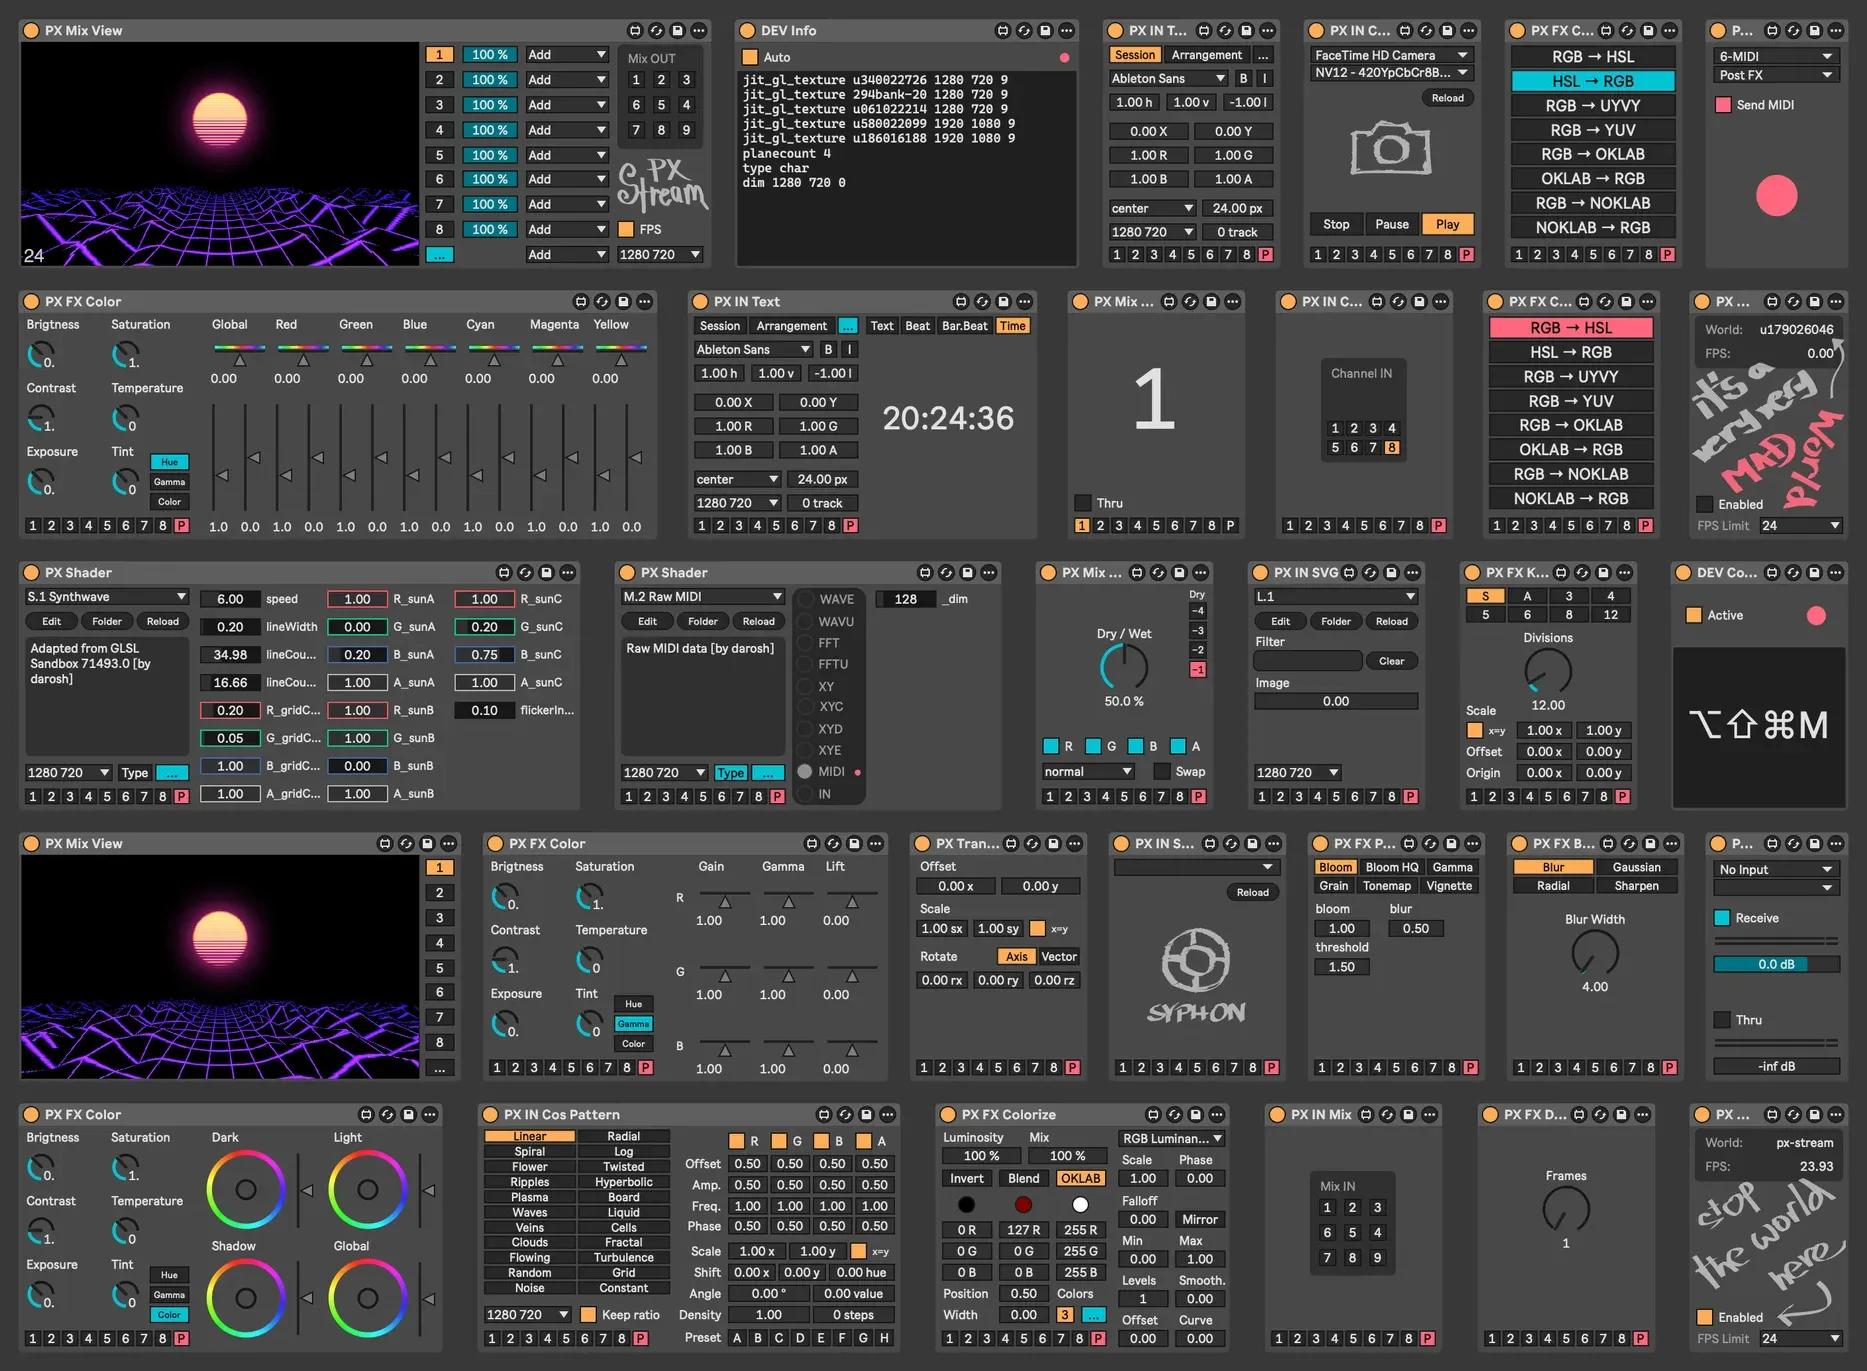
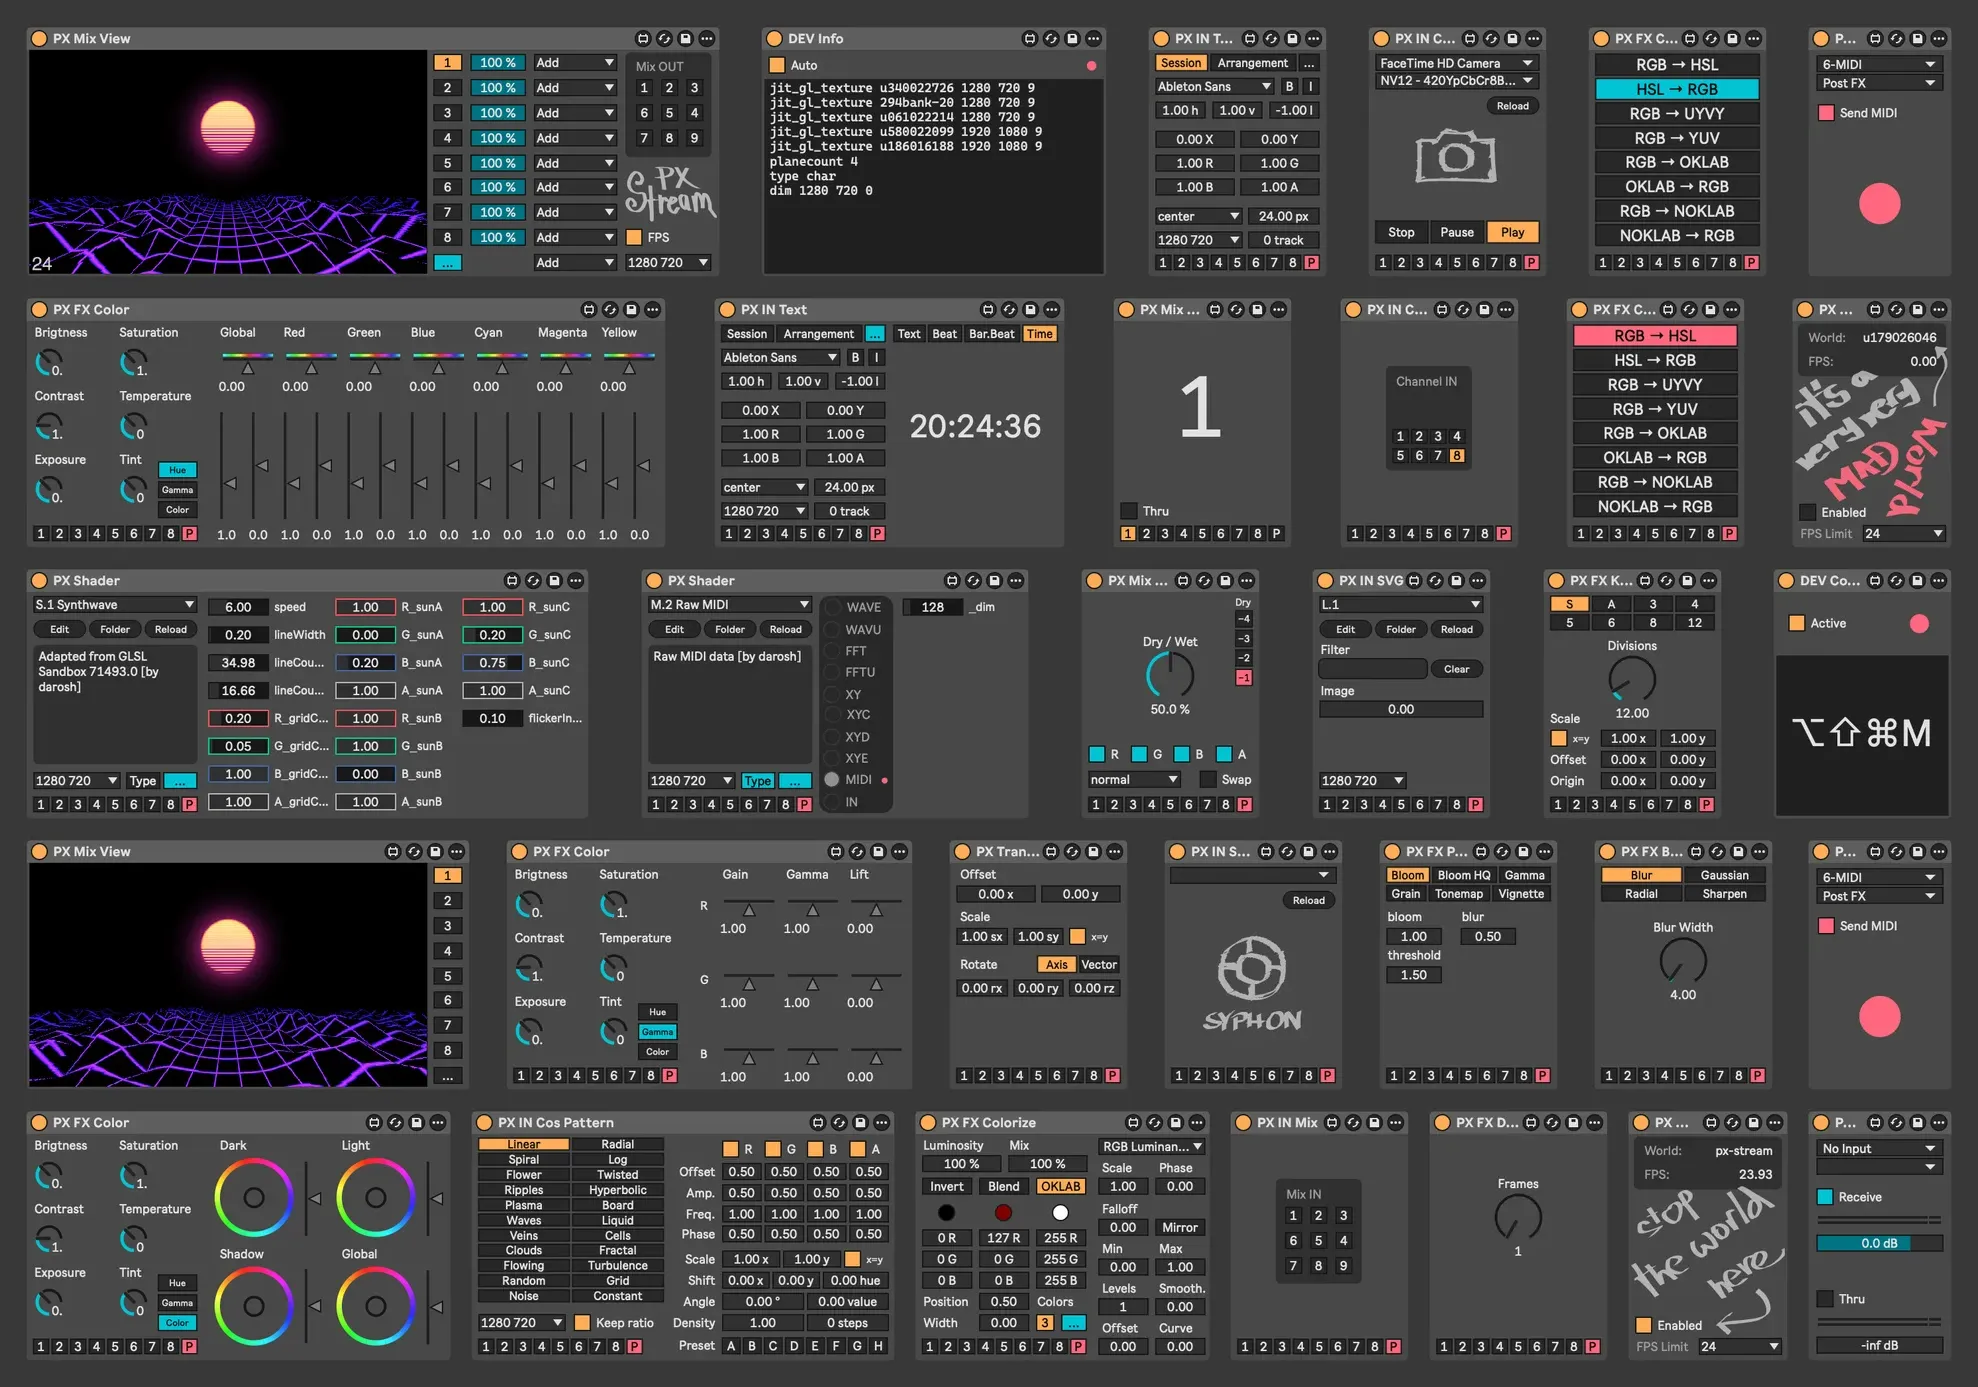
doc / screenshots

diff --git a/scripts/doc.js b/scripts/doc.js
@@ -1,0 +1,145 @@
+import fs from 'fs'
+import path from 'path'
+import { glob } from 'glob'
+import sharp from 'sharp'
+
+// === CONFIGURATION ===
+const inputPattern = './assets/devices/*.webp' // adjust to your folder
+const outputFile = './assets/devices.webp'
+const htmlOutput = './assets/devices.html' // HTML snippet for GH README
+const rows = 5 // number of rows
+const align = 'justify' // "left" | "center" | "justify"
+const spacing = 16 // minimal distance between images
+const margin = 24 // outer margin around the whole collage
+const targetWidth = 980 // target max width for GH rendering
+
+function imgSection (name) {
+  return path.parse(name).name
+    .replace(/_v\d+$/, '')
+    .toLowerCase()
+    .replace(/_\(.+\)/, '')
+    .replaceAll('_', '-')
+}
+
+async function createCollage () {
+  // Get images
+  const files = glob.sync(inputPattern)
+  if (files.length === 0) throw new Error('No images found')
+
+  // Load metadata (width, height)
+  const images = await Promise.all(
+    files.map(async (file) => {
+      const metadata = await sharp(file).metadata()
+      return { file, width: metadata.width, height: metadata.height, name: path.basename(file) }
+    })
+  )
+
+  const rowHeight = images[0].height
+
+  // Sort images by width (descending)
+  images.sort((a, b) => b.width - a.width)
+
+  // Initialize rows
+  const rowImages = Array.from({ length: rows }, () => [])
+  const rowWidths = Array(rows).fill(0)
+
+  // Greedy bin packing: assign each image to the row with least current width
+  for (const img of images) {
+    let targetRow = rowWidths.indexOf(Math.min(...rowWidths))
+    rowImages[targetRow].push(img)
+    rowWidths[targetRow] += img.width + spacing
+  }
+
+  // Compute max row width
+  const maxRowWidth = Math.max(
+    ...rowImages.map(
+      (row) => row.reduce((s, img) => s + img.width, 0) + (row.length - 1) * spacing
+    )
+  )
+
+  const totalHeight = rows * rowHeight + (rows - 1) * spacing
+
+  // Prepare sharp composites and layout data for HTML
+  const composites = []
+  const layout = []
+  let y = margin
+
+  for (const row of rowImages) {
+    const totalWidth = row.reduce((s, img) => s + img.width, 0)
+    const gaps = row.length - 1
+
+    let x = margin
+    let extraSpace = maxRowWidth - totalWidth - gaps * spacing
+
+    let gapSpacing = spacing
+    let remainder = 0
+
+    if (align === 'center') {
+      x += Math.floor(extraSpace / 2)
+    } else if (align === 'justify' && gaps > 0) {
+      gapSpacing = spacing + Math.floor(extraSpace / gaps)
+      remainder = extraSpace % gaps // distribute leftover pixels
+    }
+
+    const rowLayout = []
+
+    for (let i = 0; i < row.length; i++) {
+      const img = row[i]
+      composites.push({
+        input: img.file,
+        top: y,
+        left: x,
+      })
+      rowLayout.push({ ...img, width: img.width, height: rowHeight })
+
+      x += img.width
+      if (i < row.length - 1) {
+        x += gapSpacing
+        if (remainder > 0) {
+          x += 1 // distribute an extra pixel
+          remainder--
+        }
+      }
+    }
+
+    layout.push(rowLayout)
+    y += rowHeight + spacing
+  }
+
+  // Create blank canvas and composite
+  const collage = sharp({
+    create: {
+      width: maxRowWidth + margin * 2,
+      height: totalHeight + margin * 2,
+      channels: 4,
+      background: { r: 56, g: 56, b: 56, alpha: 1 },
+    },
+  })
+    .composite(composites)
+    .webp()
+
+  await collage.toFile(outputFile)
+  console.log('Collage saved to', outputFile)
+
+  // Generate HTML snippet for GH
+  const scaleFactor = targetWidth / (maxRowWidth + margin * 2)
+  const html = []
+  html.push(`<div style="display:flex; flex-direction:column; gap:${spacing}px; max-width:${targetWidth}px;">`)
+
+  layout.forEach((row, rowIndex) => {
+    html.push(`  <div style="display:flex; gap:${spacing}px; justify-content:space-between;">`)
+    row.forEach((img, i) => {
+      const scaledWidth = Math.round(img.width * scaleFactor)
+      html.push(
+        `    <a href="#${imgSection(img.name)}"><img src="./${path.join('assets', 'devices', img.name)}" width="${scaledWidth}"/></a>`
+      )
+    })
+    html.push('  </div>')
+  })
+  html.push('</div>')
+
+  fs.writeFileSync(htmlOutput, html.join('\n'), 'utf-8')
+  console.log('HTML snippet saved to', htmlOutput)
+}
+
+await createCollage().catch(console.error)

diff --git a/assets/devices.html b/assets/devices.html
@@ -1,0 +1,44 @@
+<div style="display:flex; flex-direction:column; gap:16px; max-width:980px;">
+  <div style="display:flex; gap:16px; justify-content:space-between;">
+    <a href="#px-mix-view"><img src="./assets/devices/PX_Mix_View_(expanded)_v1.webp" width="346"/></a>
+    <a href="#dev-info"><img src="./assets/devices/DEV_Info_v1.webp" width="173"/></a>
+    <a href="#px-in-text"><img src="./assets/devices/PX_IN_Text_v1.webp" width="91"/></a>
+    <a href="#px-in-cam"><img src="./assets/devices/PX_IN_Cam_v1.webp" width="91"/></a>
+    <a href="#px-fx-convert"><img src="./assets/devices/PX_FX_Convert_(convert_back)_v1.webp" width="91"/></a>
+    <a href="#px-route-midi"><img src="./assets/devices/PX_Route_MIDI_v1.webp" width="73"/></a>
+  </div>
+  <div style="display:flex; gap:16px; justify-content:space-between;">
+    <a href="#px-fx-color"><img src="./assets/devices/PX_FX_Color_(hue)_v1.webp" width="319"/></a>
+    <a href="#px-in-text"><img src="./assets/devices/PX_IN_Text_(expanded)_v1.webp" width="176"/></a>
+    <a href="#px-mix-channel"><img src="./assets/devices/PX_Mix_Channel_v1.webp" width="91"/></a>
+    <a href="#px-in-channel"><img src="./assets/devices/PX_IN_Channel_v1.webp" width="91"/></a>
+    <a href="#px-fx-convert"><img src="./assets/devices/PX_FX_Convert_v1.webp" width="91"/></a>
+    <a href="#px-world"><img src="./assets/devices/PX_World_(mad_world)_v1.webp" width="81"/></a>
+  </div>
+  <div style="display:flex; gap:16px; justify-content:space-between;">
+    <a href="#px-shader"><img src="./assets/devices/PX_Shader_v1.webp" width="281"/></a>
+    <a href="#px-shader"><img src="./assets/devices/PX_Shader_(types)_v1.webp" width="194"/></a>
+    <a href="#px-mix-dry"><img src="./assets/devices/PX_Mix_Dry_v1.webp" width="91"/></a>
+    <a href="#px-in-svg"><img src="./assets/devices/PX_IN_SVG_v1.webp" width="91"/></a>
+    <a href="#px-fx-kaleidoscope"><img src="./assets/devices/PX_FX_Kaleidoscope_v1.webp" width="91"/></a>
+    <a href="#dev-console"><img src="./assets/devices/DEV_Console_v1.webp" width="91"/></a>
+  </div>
+  <div style="display:flex; gap:16px; justify-content:space-between;">
+    <a href="#px-mix-view"><img src="./assets/devices/PX_Mix_View_v1.webp" width="222"/></a>
+    <a href="#px-fx-color"><img src="./assets/devices/PX_FX_Color_(gamma)_v1.webp" width="204"/></a>
+    <a href="#px-transform"><img src="./assets/devices/PX_Transform_v1.webp" width="91"/></a>
+    <a href="#px-in-syphon"><img src="./assets/devices/PX_IN_Syphon_v1.webp" width="91"/></a>
+    <a href="#px-fx-pass"><img src="./assets/devices/PX_FX_Pass_v1.webp" width="91"/></a>
+    <a href="#px-fx-blur"><img src="./assets/devices/PX_FX_Blur_v1.webp" width="91"/></a>
+    <a href="#px-route-midi"><img src="./assets/devices/PX_Route_MIDI_(linked)_v1.webp" width="73"/></a>
+  </div>
+  <div style="display:flex; gap:16px; justify-content:space-between;">
+    <a href="#px-fx-color"><img src="./assets/devices/PX_FX_Color_v1.webp" width="213"/></a>
+    <a href="#px-in-cos-pattern"><img src="./assets/devices/PX_IN_Cos_Pattern_v1.webp" width="212"/></a>
+    <a href="#px-fx-colorize"><img src="./assets/devices/PX_FX_Colorize_v1.webp" width="148"/></a>
+    <a href="#px-in-mix"><img src="./assets/devices/PX_IN_Mix_v1.webp" width="91"/></a>
+    <a href="#px-fx-delay"><img src="./assets/devices/PX_FX_Delay_v1.webp" width="91"/></a>
+    <a href="#px-world"><img src="./assets/devices/PX_World_v1.webp" width="81"/></a>
+    <a href="#px-route-audio"><img src="./assets/devices/PX_Route_Audio_v1.webp" width="73"/></a>
+  </div>
+</div>

diff --git a/scripts/screenshots.js b/scripts/screenshots.js
@@ -19,109 +19,3 @@ async function processScreenshots () {
 }
 
 await processScreenshots().catch(console.error)
-
-// === CONFIGURATION ===
-const inputPattern = "./assets/devices/*.webp"; // adjust to your folder
-const outputFile = "./assets/devices.webp";
-const rows = 5; // number of rows
-const align = "justify"; // "left" | "center" | "justify"
-const spacing = 16; // minimal distance between images
-const margin = 16; // outer margin around the whole collage
-
-async function createCollage() {
-  // Get images
-  const files = glob.sync(inputPattern, {ignore: ['./assets/devices/PX_Route_MIDI_(linked)_v1.webp']});
-  if (files.length === 0) throw new Error("No images found");
-
-  // Load metadata (width, height)
-  const images = await Promise.all(
-    files.map(async (file) => {
-      const metadata = await sharp(file).metadata();
-      return { file, width: metadata.width, height: metadata.height };
-    })
-  );
-
-  const rowHeight = images[0].height;
-
-  // Sort images by width (descending)
-  images.sort((a, b) => b.width - a.width);
-
-  // Initialize rows
-  const rowImages = Array.from({ length: rows }, () => []);
-  const rowWidths = Array(rows).fill(0);
-
-  // Greedy bin packing: assign each image to the row with least current width
-  for (const img of images) {
-    let targetRow = rowWidths.indexOf(Math.min(...rowWidths));
-    rowImages[targetRow].push(img);
-    rowWidths[targetRow] += img.width + spacing;
-  }
-
-  // Compute max row width
-  const maxRowWidth = Math.max(
-    ...rowImages.map(
-      (row) => row.reduce((s, img) => s + img.width, 0) + (row.length - 1) * spacing
-    )
-  );
-
-  const totalHeight = rows * rowHeight + (rows - 1) * spacing;
-
-  // Prepare sharp composites
-  const composites = [];
-  let y = margin;
-
-  for (const row of rowImages) {
-    const totalWidth = row.reduce((s, img) => s + img.width, 0);
-    const gaps = row.length - 1;
-
-    let x = margin;
-    let extraSpace = maxRowWidth - totalWidth - gaps * spacing;
-
-    let gapSpacing = spacing;
-    let remainder = 0;
-
-    if (align === "center") {
-      x += Math.floor(extraSpace / 2);
-    } else if (align === "justify" && gaps > 0) {
-      gapSpacing = spacing + Math.floor(extraSpace / gaps);
-      remainder = extraSpace % gaps; // distribute leftover pixels
-    }
-
-    for (let i = 0; i < row.length; i++) {
-      const img = row[i];
-      composites.push({
-        input: img.file,
-        top: y,
-        left: x,
-      });
-      x += img.width;
-      if (i < row.length - 1) {
-        x += gapSpacing;
-        if (remainder > 0) {
-          x += 1; // distribute an extra pixel
-          remainder--;
-        }
-      }
-    }
-
-    y += rowHeight + spacing;
-  }
-
-  // Create blank canvas
-  const collage = sharp({
-    create: {
-      width: maxRowWidth + margin * 2,
-      height: totalHeight + margin * 2,
-      channels: 4,
-      background: { r: 56, g: 56, b: 56, alpha: 1 },
-    },
-  })
-    .composite(composites)
-    .webp();
-
-  await collage.toFile(outputFile);
-  console.log("Collage saved to", outputFile);
-}
-
-await createCollage().catch(console.error);
-  

diff --git a/README.md b/README.md
@@ -8,6 +8,51 @@
 
 ## Devices / Usage
 
+<div style="display:flex; flex-direction:column; gap:16px; max-width:980px; background-color: rgba(56, 56, 56, 1); line-height: 0; padding: 16px;">
+  <div style="display:flex; gap:16px; justify-content:space-between;">
+    <a href="#px-mix-view"><img src="./assets/devices/PX_Mix_View_(expanded)_v1.webp" width="346"/></a>
+    <a href="#dev-info"><img src="./assets/devices/DEV_Info_v1.webp" width="173"/></a>
+    <a href="#px-in-text"><img src="./assets/devices/PX_IN_Text_v1.webp" width="91"/></a>
+    <a href="#px-in-cam"><img src="./assets/devices/PX_IN_Cam_v1.webp" width="91"/></a>
+    <a href="#px-fx-convert"><img src="./assets/devices/PX_FX_Convert_(convert_back)_v1.webp" width="91"/></a>
+    <a href="#px-route-midi"><img src="./assets/devices/PX_Route_MIDI_v1.webp" width="73"/></a>
+  </div>
+  <div style="display:flex; gap:16px; justify-content:space-between;">
+    <a href="#px-fx-color"><img src="./assets/devices/PX_FX_Color_(hue)_v1.webp" width="319"/></a>
+    <a href="#px-in-text"><img src="./assets/devices/PX_IN_Text_(expanded)_v1.webp" width="176"/></a>
+    <a href="#px-mix-channel"><img src="./assets/devices/PX_Mix_Channel_v1.webp" width="91"/></a>
+    <a href="#px-in-channel"><img src="./assets/devices/PX_IN_Channel_v1.webp" width="91"/></a>
+    <a href="#px-fx-convert"><img src="./assets/devices/PX_FX_Convert_v1.webp" width="91"/></a>
+    <a href="#px-world"><img src="./assets/devices/PX_World_(mad_world)_v1.webp" width="81"/></a>
+  </div>
+  <div style="display:flex; gap:16px; justify-content:space-between;">
+    <a href="#px-shader"><img src="./assets/devices/PX_Shader_v1.webp" width="281"/></a>
+    <a href="#px-shader"><img src="./assets/devices/PX_Shader_(types)_v1.webp" width="194"/></a>
+    <a href="#px-mix-dry"><img src="./assets/devices/PX_Mix_Dry_v1.webp" width="91"/></a>
+    <a href="#px-in-svg"><img src="./assets/devices/PX_IN_SVG_v1.webp" width="91"/></a>
+    <a href="#px-fx-kaleidoscope"><img src="./assets/devices/PX_FX_Kaleidoscope_v1.webp" width="91"/></a>
+    <a href="#dev-console"><img src="./assets/devices/DEV_Console_v1.webp" width="91"/></a>
+  </div>
+  <div style="display:flex; gap:16px; justify-content:space-between;">
+    <a href="#px-mix-view"><img src="./assets/devices/PX_Mix_View_v1.webp" width="222"/></a>
+    <a href="#px-fx-color"><img src="./assets/devices/PX_FX_Color_(gamma)_v1.webp" width="204"/></a>
+    <a href="#px-transform"><img src="./assets/devices/PX_Transform_v1.webp" width="91"/></a>
+    <a href="#px-in-syphon"><img src="./assets/devices/PX_IN_Syphon_v1.webp" width="91"/></a>
+    <a href="#px-fx-pass"><img src="./assets/devices/PX_FX_Pass_v1.webp" width="91"/></a>
+    <a href="#px-fx-blur"><img src="./assets/devices/PX_FX_Blur_v1.webp" width="91"/></a>
+    <a href="#px-route-midi"><img src="./assets/devices/PX_Route_MIDI_(linked)_v1.webp" width="73"/></a>
+  </div>
+  <div style="display:flex; gap:16px; justify-content:space-between;">
+    <a href="#px-fx-color"><img src="./assets/devices/PX_FX_Color_v1.webp" width="213"/></a>
+    <a href="#px-in-cos-pattern"><img src="./assets/devices/PX_IN_Cos_Pattern_v1.webp" width="212"/></a>
+    <a href="#px-fx-colorize"><img src="./assets/devices/PX_FX_Colorize_v1.webp" width="148"/></a>
+    <a href="#px-in-mix"><img src="./assets/devices/PX_IN_Mix_v1.webp" width="91"/></a>
+    <a href="#px-fx-delay"><img src="./assets/devices/PX_FX_Delay_v1.webp" width="91"/></a>
+    <a href="#px-world"><img src="./assets/devices/PX_World_v1.webp" width="81"/></a>
+    <a href="#px-route-audio"><img src="./assets/devices/PX_Route_Audio_v1.webp" width="73"/></a>
+  </div>
+</div>
+
 **Core**
 
 - [PX World](#px-world)
